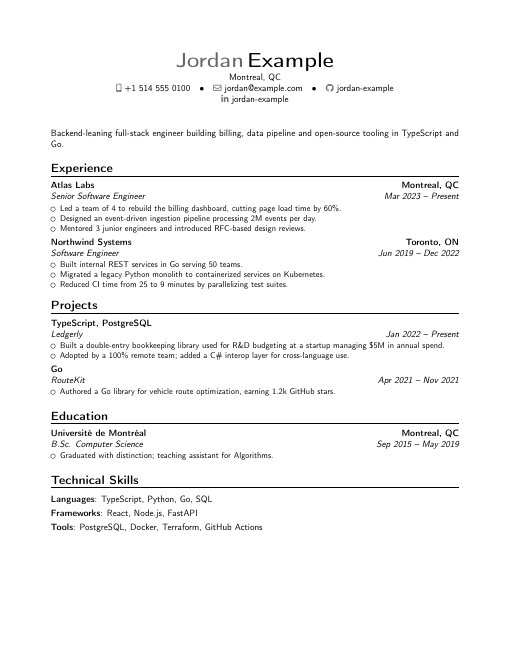
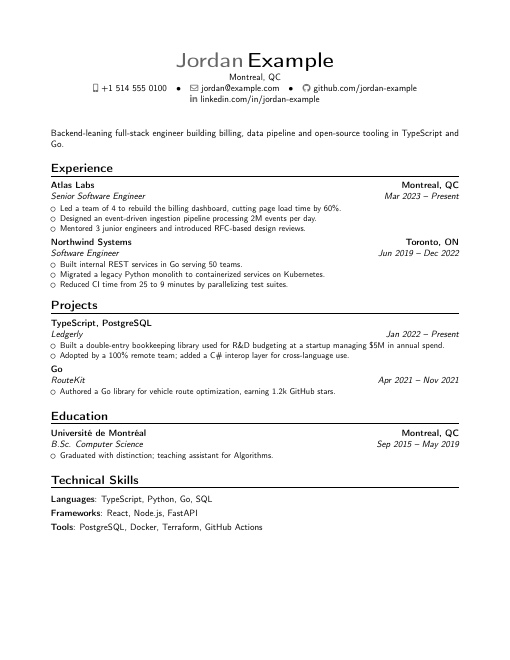
fix(minimal): contact links target raw URLs; cover letter shows them too
Links go into moderncv's socials collection as plain \href with the raw
URL (latexUrl) as target and the scheme-less, slash-trimmed URL as text,
instead of escaped handles fed to \social/\homepage. The banking letter
head ignores socials, so the cover letter lists them via \extrainfo.

Changed region(s): [[0.1765, 0.1212, 0.8235, 0.1515]]

diff --git a/tests/templates.test.ts b/tests/templates.test.ts
@@ -13,7 +13,7 @@ import { loadProfile } from "../src/profile/load";
 import type { About } from "../src/profile/schema";
 import { compileTex } from "../src/render/compile";
 import { extractPdfText } from "../src/render/pdftext";
-import { findTemplate, renderResume } from "../src/render/render";
+import { findTemplate, renderCoverLetter, renderResume } from "../src/render/render";
 import { resolveResume } from "../src/pipeline/resolve";
 import { formatTemplateList, listTemplates, newTemplate, templateDirs, templateProblems } from "../src/render/templates";
 
@@ -140,12 +140,27 @@ const job = { company: "Atlas Freight", role: "Senior Backend Engineer" };
 const common = { about: profile.about, job, targetPages: 1, keywords: [] as string[], profileText: "" };
 const marker = { pdflatex: "\\pdfgentounicode=1", lualatex: "\\pdfvariable gentounicode", xelatex: "fontspec" } as const;
 
-async function pdfInfo(pdf: Uint8Array): Promise<string> {
+async function pdfInfo(pdf: Uint8Array, ...flags: string[]): Promise<string> {
   const f = join(tmp(), "x.pdf");
   writeFileSync(f, pdf);
-  const p = Bun.spawn(["pdfinfo", f], { stdout: "pipe" });
+  const p = Bun.spawn(["pdfinfo", ...flags, f], { stdout: "pipe" });
   return await new Response(p.stdout).text();
 }
+
+/** Link targets from `pdfinfo -url` (one per annotation). */
+async function pdfUrls(pdf: Uint8Array): Promise<string[]> {
+  return (await pdfInfo(pdf, "-url"))
+    .split("\n")
+    .slice(1)
+    .map((l) => l.trim().split(/\s+/)[2])
+    .filter((u): u is string => !!u);
+}
+
+const hostileLinks = [
+  { label: "GitHub", url: "https://github.com/first_last/" },
+  { label: "LinkedIn", url: "https://www.linkedin.com/in/first_last-123/details/" },
+  { label: "Site", url: "https://example.com/~me/a_b?q=1%20#frag" },
+];
 
 for (const info of listTemplates(tmp()).filter((t) => t.source === "builtin")) {
   const template = findTemplate(info.id, templateDirs(tmp()));
@@ -194,6 +209,20 @@ for (const info of listTemplates(tmp()).filter((t) => t.source === "builtin")) {
       expect(text).toContain("Zoë José Núñez");
       expect(text).toContain("Łódź R&D");
       expect(atsCheck(text, resumeAtsExpect(about, sparse)).status).toBe("ok");
+    }, 300_000);
+
+    test.skipIf(skipPdf || !Bun.which("pdfinfo"))("contact links keep their raw targets and show readable text (resume and cover letter)", async () => {
+      const about: About = { ...profile.about, links: hostileLinks };
+      const resume = resolveResume(content, entries);
+      for (const tex of [renderResume(template, { about, resume, job }), renderCoverLetter(template, { about, letter, job, date: "November 11, 2026" })]) {
+        const { pdf } = await compileTex(tex, template.engine);
+        const urls = await pdfUrls(pdf);
+        for (const l of hostileLinks) expect(urls).toContain(l.url);
+        const text = (await extractPdfText(pdf))!.replace(/\s+/g, " ");
+        expect(text).toContain("github.com/first_last");
+        expect(text).toContain("linkedin.com/in/first_last-123/details");
+        expect(text).toContain("example.com/~me/a_b");
+      }
     }, 300_000);
   });
 }
